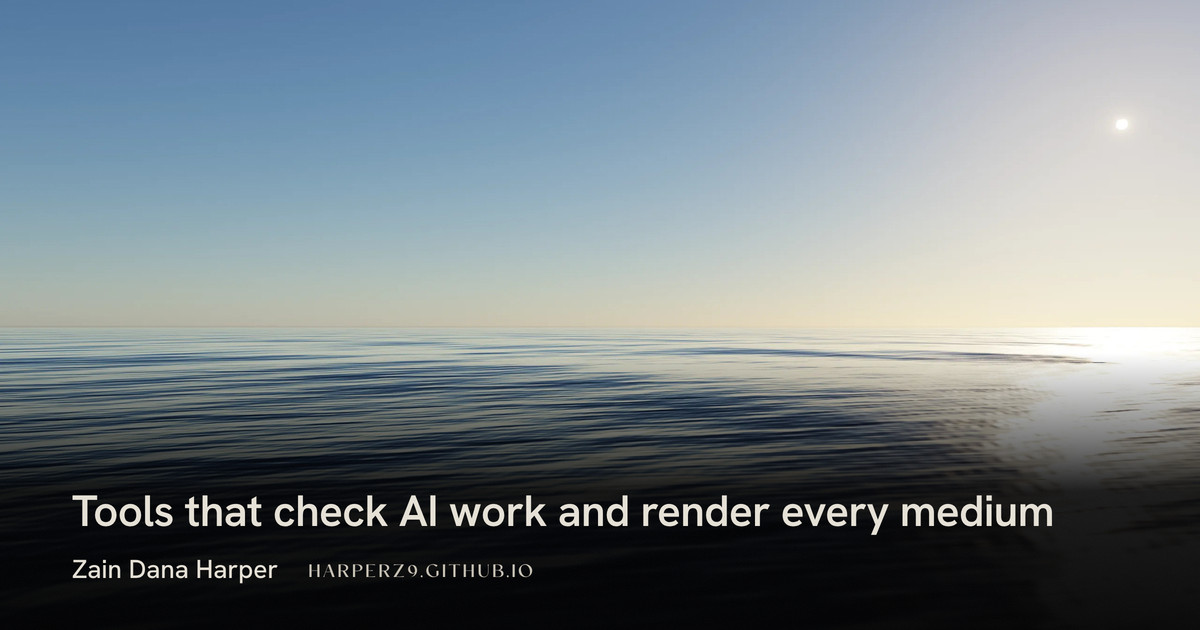
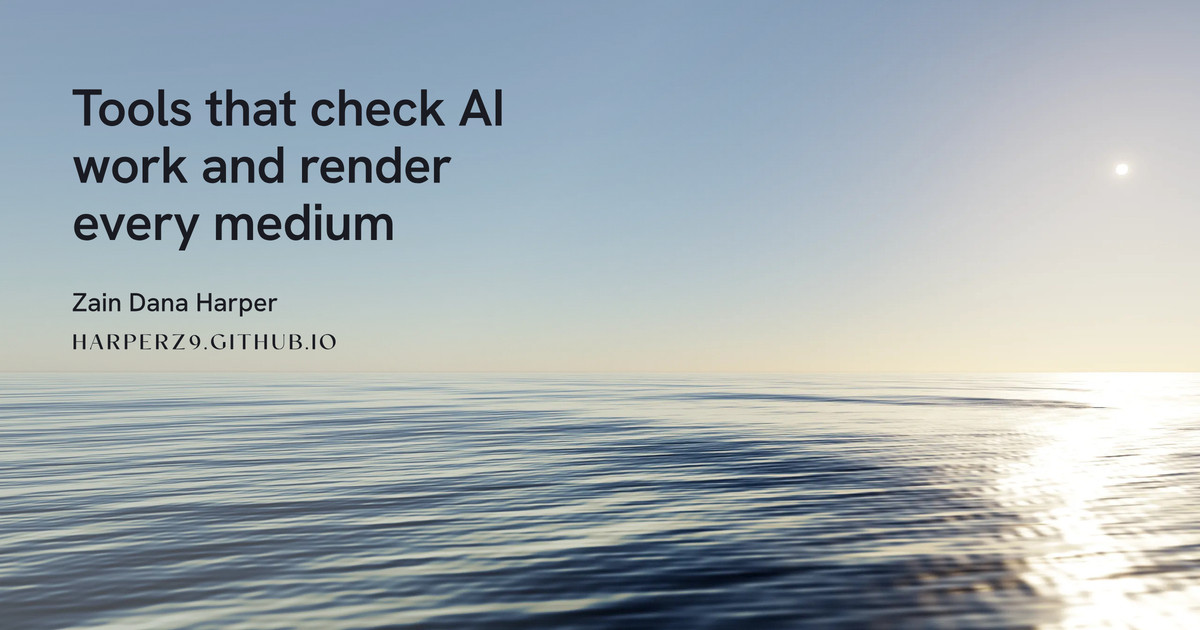
home card: variant C, dark title in the sky with the whole sea open
The author chose variant C. The title, byline and site line sit dark in
the sky at the top left over a pale haze, with no band over the water.
The site line is set at 20 px so it holds in a small preview. Lowest
contrast of any line is 7.47.

diff --git a/index.html b/index.html
@@ -13,12 +13,12 @@
 <meta property="og:title" content="Zain Dana Harper">
 <meta property="og:description" content="Zain Dana Harper's work as one world: a road through ink and water, then places for light, type, mosaic, sound, data, film and the tools.">
 <meta property="og:url" content="https://harperz9.github.io/">
-<meta property="og:image" content="https://harperz9.github.io/img/og/p/home.jpg?v=2a7dfe9c9ff4">
+<meta property="og:image" content="https://harperz9.github.io/img/og/p/home.jpg?v=69839437d492">
 <meta property="og:image:width" content="1200">
 <meta property="og:image:height" content="630">
 <meta property="og:image:alt" content="Tools that check AI work and render every medium, by Zain Dana Harper. A rendered sea under a clear sky, a small sun high on the right and its light running down the water.">
 <meta name="twitter:card" content="summary_large_image">
-<meta name="twitter:image" content="https://harperz9.github.io/img/og/p/home.jpg?v=2a7dfe9c9ff4">
+<meta name="twitter:image" content="https://harperz9.github.io/img/og/p/home.jpg?v=69839437d492">
 <meta name="twitter:image:alt" content="Tools that check AI work and render every medium, by Zain Dana Harper. A rendered sea under a clear sky, a small sun high on the right and its light running down the water.">
 <meta name="twitter:title" content="Zain Dana Harper">
 <meta name="twitter:description" content="Zain Dana Harper's work as one world: a road through ink and water, then places for light, type, mosaic, sound, data, film and the tools.">

diff --git a/tools/repo_art/card_plan.py b/tools/repo_art/card_plan.py
@@ -61,8 +61,8 @@ def _meta(src: str, key: str) -> str:
 
 # A page titled with the author's name alone (the home) gets its card title from what the site does: the name stays
 # a byline on the card and is never the picture (the author, 2026-11-09).
-NAME_TITLE = "Tools that check AI work and render every medium"  # one line on the card, so the water under it shows
-HOME = {"veil": "low", "anchor": 1.0}  # the home card: the picture at full height, the dark low and light
+NAME_TITLE = "Tools that check AI work and render every medium"
+HOME = {"veil": "sky", "anchor": 0.0}  # the home card: dark type in the sky, the whole sea open (author, 2026-11-09: "Card C")
 
 
 def clean_title(title: str) -> str:

diff --git a/tools/repo_art/cards.py b/tools/repo_art/cards.py
@@ -194,7 +194,7 @@ def type_sky(card: dict, face: str) -> list[dict]:
         out.append(run(ln, face, size, X0, y, SKY_INK, -0.015))
         y += size * 1.1
     return out + [run("Zain Dana Harper", "grotesk-medium", 26, X0, y + 14, SKY_INK, role="byline"),
-                  run(kicker(card), "mono-medium", 17, X0, y + 50, SKY_INK, 0.1, "kicker")]
+                  run(kicker(card), "mono-medium", 20, X0, y + 52, SKY_INK, 0.1, "kicker")]
 
 
 def card_runs(card: dict, p: dict, plate: int | None = None) -> list[dict]:
